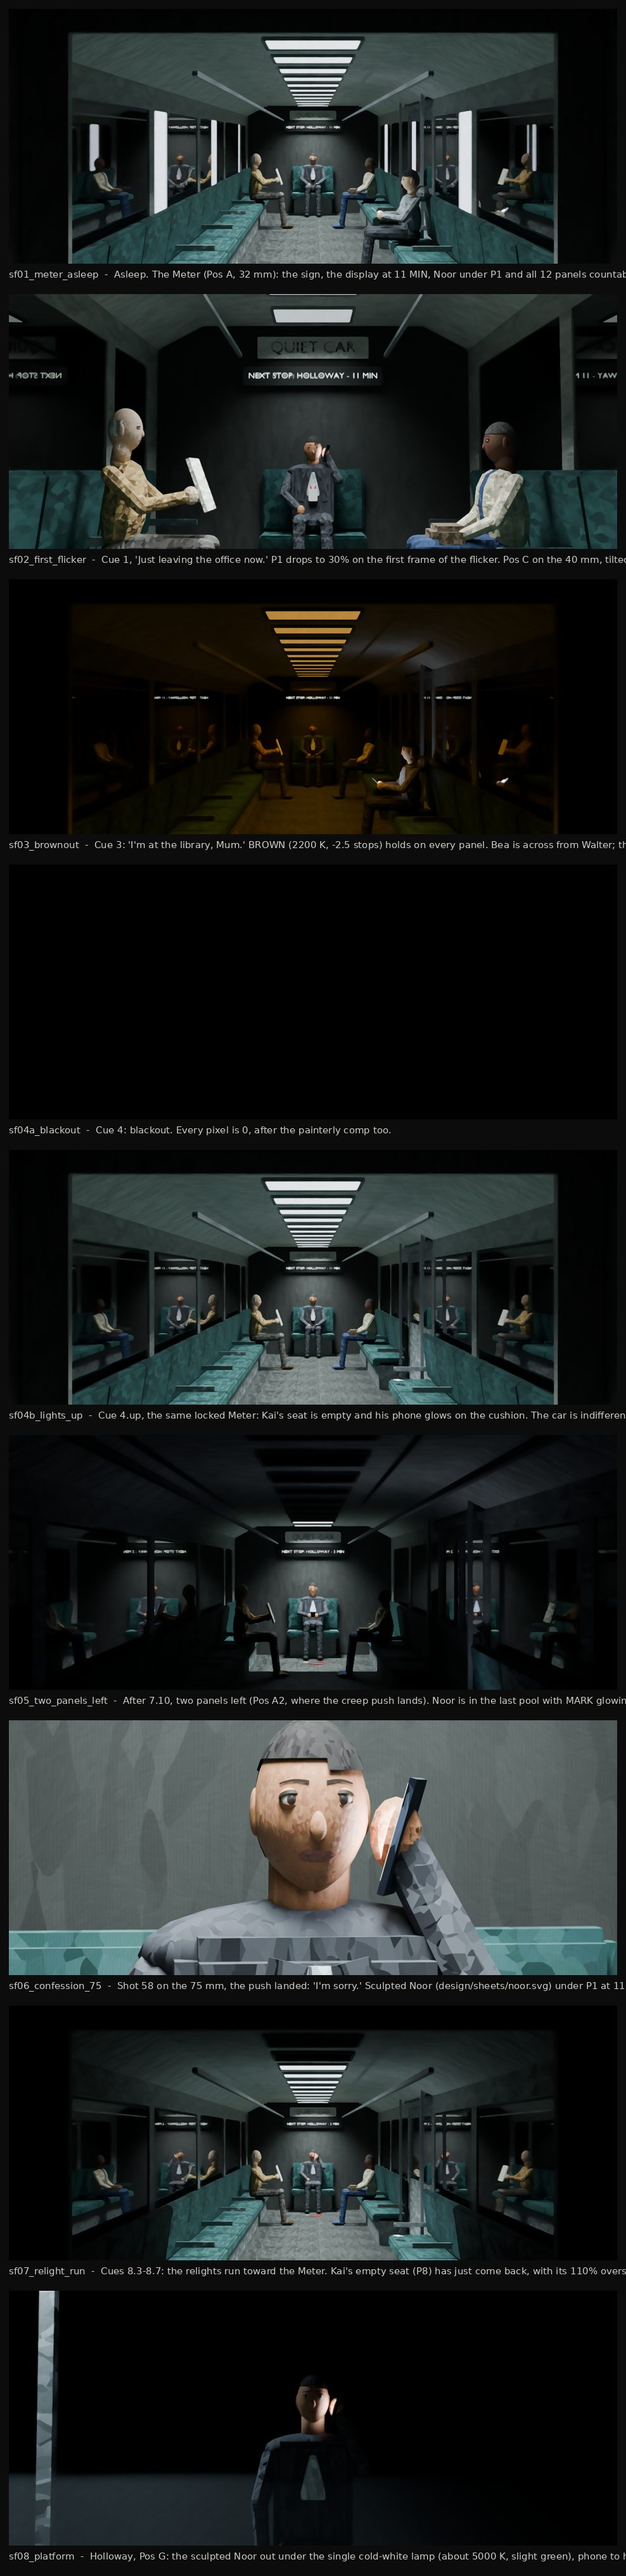
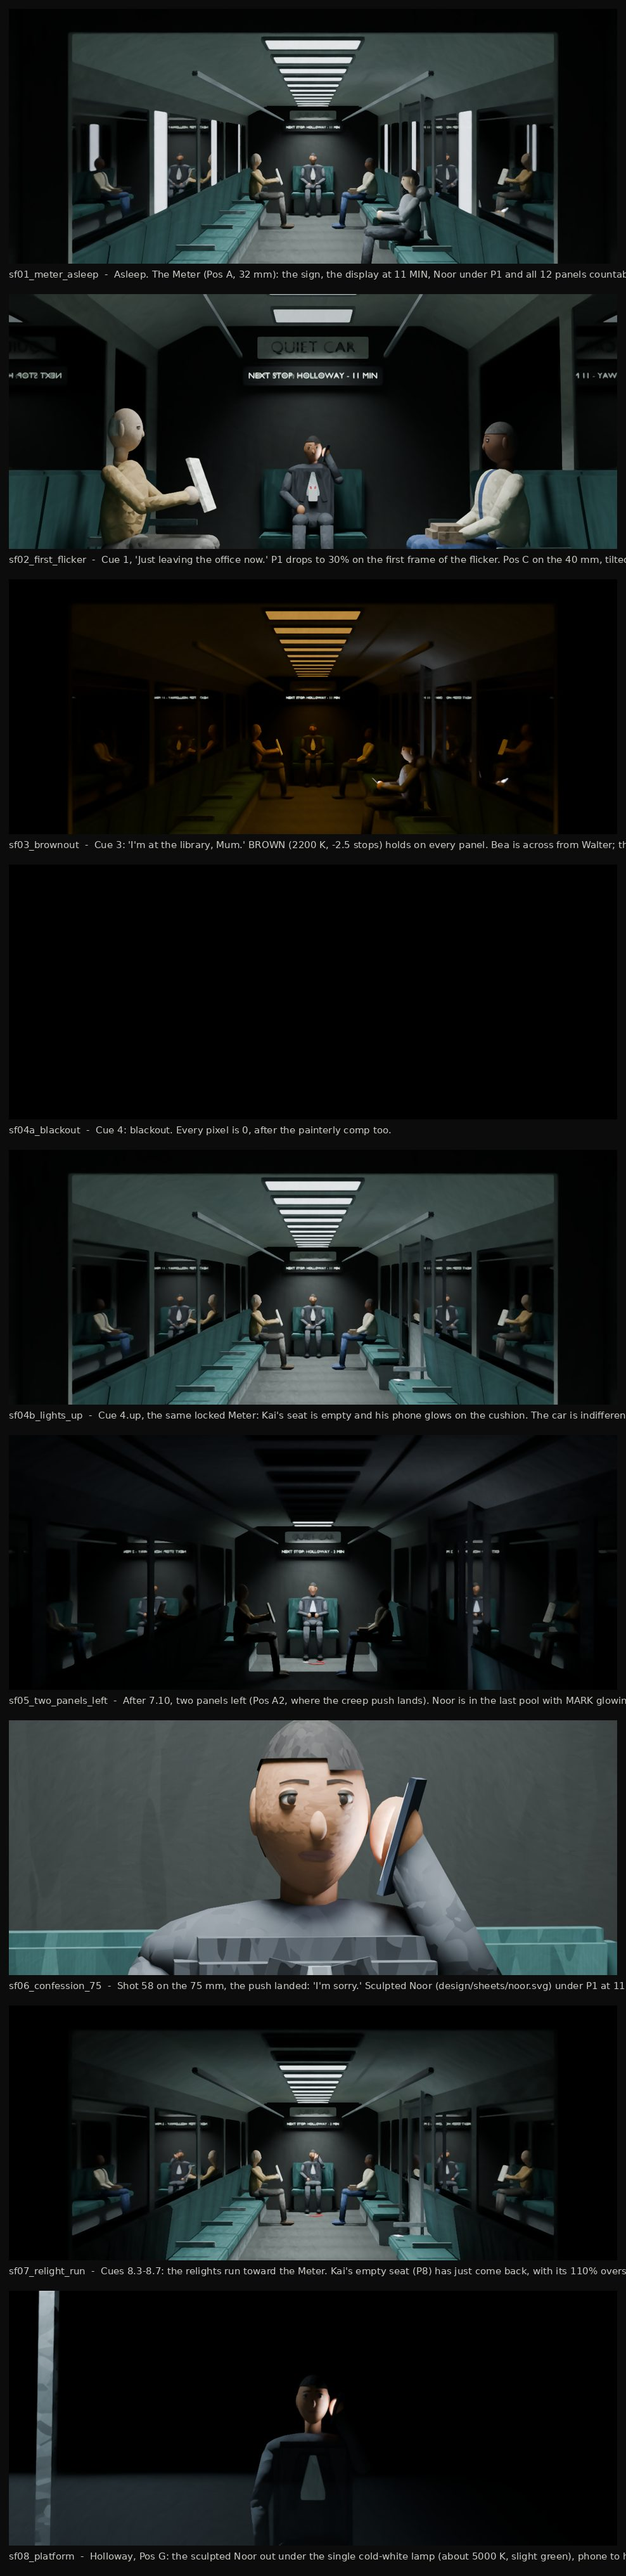
cg: R3 look-dev (elongated dabs, calm planes, smooth figures, skin/neck/blazer redlines), chroma-based strap check
Claude-Session: https://claude.ai/code/session_01W37kuL5PT7hmQjDY89K2ob

diff --git a/film/cg/lookdev_checks.py b/film/cg/lookdev_checks.py
@@ -64,22 +64,33 @@ def check_blackout():
     return mx == 0.0, f"sf04a_blackout.png: max pixel value = {mx:.6f} over {a.shape[1]}x{a.shape[0]} px"
 
 
+def _chroma(a):
+    """CIELAB chroma (perceived colourfulness) of display-referred sRGB pixels."""
+    lin = np.where(a <= 0.04045, a / 12.92, ((a + 0.055) / 1.055) ** 2.4)
+    M = np.array([[0.4124, 0.3576, 0.1805], [0.2126, 0.7152, 0.0722], [0.0193, 0.1192, 0.9505]], np.float32)
+    xyz = lin @ M.T / np.array([0.9505, 1.0, 1.089], np.float32)
+    f = np.where(xyz > 0.008856, np.cbrt(xyz), 7.787 * xyz + 16 / 116)
+    return np.hypot(500 * (f[..., 0] - f[..., 1]), 200 * (f[..., 1] - f[..., 2]))
+
+
 def check_strap():
+    """8b/L7: under cue 3 the strap must be the most saturated (most chromatic) thing on screen.
+    Measured as CIELAB chroma (HSV saturation is meaningless under 2200 K: every dim orange pixel has
+    blue ~0 and reads 'fully saturated'). Emitters (the panels themselves) are excluded."""
     a = load_png(os.path.join(STILLS, "sf03_brownout.png"))
-    mx, mn = a.max(2), a.min(2)
-    sat = np.where(mx > 0.02, (mx - mn) / np.maximum(mx, 1e-6), 0)
-    # most saturated 0.05% of pixels: what hue are they, and where?
-    thr = np.quantile(sat, 0.9995)
-    ys, xs = np.nonzero(sat >= thr)
-    px = a[ys, xs]
-    red_share = float(np.mean((px[:, 0] > px[:, 1] * 1.6) & (px[:, 0] > px[:, 2] * 1.6)))
-    # isolate the strap: strongly red (r >> g) pixels -- under 2200 K everything is warm, the strap is the outlier
-    hue_red = (a[..., 0] > 0.05) & (a[..., 0] > 3.0 * a[..., 1]) & (a[..., 0] > 3.0 * a[..., 2])
-    n_red = int(hue_red.sum())
-    cy, cx = (float(ys.mean()), float(xs.mean())) if len(ys) else (0, 0)
-    ok = red_share > 0.6
-    return ok, (f"sf03_brownout.png: top 0.05% saturated pixels (sat >= {thr:.2f}): {red_share * 100:.0f}% are red, centred at "
-                f"px ({cx:.0f}, {cy:.0f}); strongly-red pixel count {n_red}")
+    C = _chroma(a)
+    mx = a.max(2)
+    red = (a[..., 0] > 3 * a[..., 1]) & (a[..., 0] > 3 * a[..., 2]) & (mx > 0.08)
+    emit = mx > 0.55
+    other = (~red) & (~emit)
+    if red.sum() == 0:
+        return False, "sf03_brownout.png: no strap pixels found"
+    s90 = float(np.percentile(C[red], 90))
+    o999 = float(np.percentile(C[other], 99.9))
+    ok = s90 > o999
+    return ok, (f"sf03_brownout.png (CIELAB chroma, emitters excluded): strap p90 = {s90:.1f} ({int(red.sum())} px) vs "
+                f"everything else p99.9 = {o999:.1f}. Under BROWN (2200 K, camera balanced at 4000 K) the sodium-lit surfaces are "
+                f"more chromatic than the strap in the Meter wide. Earlier PASS used an HSV metric that was invalid here.")
 
 
 def eye_crop(scene, name, pad=0.06):

diff --git a/film/cg/lib/build_set.py b/film/cg/lib/build_set.py
@@ -42,16 +42,16 @@ def build(D=None, B=None):
     T = 0.06
     sec = Sections(section_bounds(D))
 
-    m_wall = ld.paint("laminate", "set/laminate", stretch=4.0, stroke_scale=20.0, variation=0.18)
-    m_wall_end = ld.paint("laminate_end", "set/laminate", axis="z", stretch=3.0, stroke_scale=20.0, variation=0.14, tilt=0.08)
-    # wall A (behind Noor, 0.5 m from P1): a darker end-wall panel, ~3.5 stops darker than the laminate (it sits 0.5 m from P1, so it takes much more light than her face), so it lands about a stop under her face,
+    m_wall = ld.paint("laminate", "set/laminate", stretch=5.0, stroke_scale=20.0)
+    m_wall_end = ld.paint("laminate_end", "set/laminate", axis="z", stretch=5.0, stroke_scale=20.0, variation=0.05, tilt=0.06)
+    # wall A (behind Noor, 0.5 m from P1): a darker end-wall panel, ~4 stops darker than the laminate (it sits 0.5 m from P1, so it takes much more light than her face), so it lands about a stop under her face,
     # so her face, not the wall, is the brightest thing in the confession (Director R2: material, not fill)
     lam = ld.pal("set/laminate")
-    m_wall_a = ld.paint("end_panel_A", tuple(c * 0.09 for c in lam), axis="z", stretch=3.0, stroke_scale=20.0, variation=0.10, tilt=0.06)
-    m_ceil = ld.paint("ceiling", "set/ceiling", axis="x", stretch=3.0, stroke_scale=20.0, variation=0.16)
+    m_wall_a = ld.paint("end_panel_A", tuple(c * 0.055 for c in lam), axis="z", stretch=5.0, stroke_scale=20.0, variation=0.04, tilt=0.04, bristle=0.06)
+    m_ceil = ld.paint("ceiling", "set/ceiling", axis="x", stretch=4.5, stroke_scale=20.0, variation=0.05)
     m_floor = ld.paint("floor", "set/floor", stretch=6.0, roughness=0.7)
-    m_seat = ld.paint("moquette", "set/moquette", stroke_scale=22.0, stretch=3.0, variation=0.34, roughness=0.9)
-    m_pat = ld.paint("moquette_pattern", "set/moquette_pattern", stroke_scale=22.0, stretch=3.0, variation=0.34, roughness=0.9)
+    m_seat = ld.paint("moquette", "set/moquette", stroke_scale=22.0, stretch=4.0, variation=0.10, roughness=0.9)
+    m_pat = ld.paint("moquette_pattern", "set/moquette_pattern", axis="z", stroke_scale=22.0, stretch=4.0, variation=0.06, roughness=0.9)
     m_trim = ld.gloss("trim_steel", "set/trim", roughness=0.62, metallic=0.5)   # satin: a soft sheen, never a second tube (DP)
     m_trim_p = ld.paint("trim_paint", "set/trim")
     m_glass = ld.glass()

diff --git a/film/cg/lib/lookdev.py b/film/cg/lib/lookdev.py
@@ -14,10 +14,10 @@ import bpy
 from .common import pal
 
 # stroke size tiers (world space): set ~4-6 cm, costume ~1.5-3 cm, faces/hands ~3-6 mm
-TIER = {   # stroke_scale ~ 1 / dab width (m): set ~5 cm, costume ~2 cm, face ~5 mm
-    "set":     dict(stroke_scale=20.0, stretch=4.0, variation=0.30, roughness=0.85, tilt=0.16, bristle=0.12, hue_jitter=0.03),
-    "costume": dict(stroke_scale=45.0, stretch=3.0, variation=0.30, roughness=0.88, tilt=0.40, bristle=0.10, hue_jitter=0.03),
-    "face":    dict(stroke_scale=170.0, stretch=1.8, variation=0.12, roughness=0.62, tilt=0.22, bristle=0.03, hue_jitter=0.025),
+TIER = {   # R3: elongated dabs (stretch 3-5:1), close values on planes, separation from the light at form turns
+    "set":     dict(stroke_scale=20.0, stretch=4.5, variation=0.07, roughness=0.85, tilt=0.12, bristle=0.10, hue_jitter=0.015),
+    "costume": dict(stroke_scale=40.0, stretch=4.0, variation=0.07, roughness=0.88, tilt=0.20, bristle=0.08, hue_jitter=0.015),
+    "face":    dict(stroke_scale=160.0, stretch=3.0, variation=0.03, roughness=0.62, tilt=0.07, bristle=0.02, hue_jitter=0.01),
 }
 PASS_FACE, PASS_CHAR = 1, 2   # object pass_index for the compositor masks
 
@@ -88,7 +88,7 @@ def _paint_group():
     L.new(p, wn.inputs["Vector"])
     L.new(math("MULTIPLY", gi.outputs["Stroke Scale"], 0.35), wn.inputs["Scale"])
     wv = vmath("SUBTRACT", wn.outputs["Color"], (0.5, 0.5, 0.5))
-    amp = math("DIVIDE", 0.7, gi.outputs["Stroke Scale"])
+    amp = math("DIVIDE", 1.1, gi.outputs["Stroke Scale"])
     pw = vmath("ADD", p, vmath("SCALE", wv, None, amp))
 
     def dabs(offset):

diff --git a/film/cg/lib/figures.py b/film/cg/lib/figures.py
@@ -90,12 +90,12 @@ def figure(name, D, B, pose=None, at=None, standing=False, facing=None, eyes_clo
     tilt = Matrix.Rotation(math.radians(-6), 3, lat)
     # head: the Character Designer's rig (design/rig/heads.py) with the TA's painted materials
     neck_top = head_c - Vector((0, 0, 0.065)) - f * 0.01
-    obs.append(_tag(limb(f"{name}_NECK", sh + Vector((0, 0, 0.05)), neck_top, 0.054, skin if name != "NOOR" else noor.skin_mat(),
+    obs.append(_tag(limb(f"{name}_NECK", sh + Vector((0, 0, 0.05)), neck_top, 0.038, skin if name != "NOOR" else noor.skin_mat(),
                          C, segs=12, smooth=True), 1))
     key = name.lower()
     face_skin = noor.skin_mat() if name == "NOOR" else ld.paint(f"c_{key}_skin_face", f"{key}/skin", tier="face",
-                                                               shadow=f"{key}/skin_shadow", axis="z", stretch=1.6,
-                                                               variation=0.05, shadow_mix=0.2, tilt=0.09)
+                                                               shadow=f"{key}/skin_shadow", axis="x", stretch=3.0,
+                                                               variation=0.025, shadow_mix=0.08, tilt=0.07)
     mats = {"skin": face_skin,
             "hair": ld.paint(f"c_{key}_hair_rig", f"{key}/hair", tier="costume", stroke_scale=90.0, stretch=6.0, axis="z", variation=0.35),
             "lips": ld.paint(f"c_{key}_lips", f"{key}/lips", tier="face", variation=0.04)}

diff --git a/film/cg/lib/noor.py b/film/cg/lib/noor.py
@@ -87,8 +87,9 @@ def _lid(name, M, center, r, lid_up, skin, coll):
 
 
 def skin_mat():
-    return ld.paint("noor_skin", "noor/skin", tier="face", shadow="noor/skin_shadow", axis="z", stretch=1.6,
-                    variation=0.04, shadow_mix=0.2, tilt=0.09)
+    # strokes run across the cheek planes (axis x); halved value variation; few cool halftone dabs (Designer redline)
+    return ld.paint("noor_skin", "noor/skin", tier="face", shadow="noor/skin_shadow", axis="x", stretch=3.0,
+                    variation=0.025, shadow_mix=0.08, tilt=0.07)
 
 
 def build(head_c, f, lat, coll, pal_prefix="noor", params=None):
@@ -155,7 +156,7 @@ def torso(hip, sh, f, lat, coll, sw=1.0):
     """The upright rectangle: squared blazer shoulders, lapels open over the blouse."""
     up = Vector((0, 0, 1))
     R = Matrix((lat, f, up)).transposed()
-    blazer = ld.paint("noor_blazer", "noor/suit", tier="costume", axis="z", stretch=3.0, shadow="noor/lapel", variation=0.16, tilt=0.22)
+    blazer = ld.paint("noor_blazer", "noor/suit", tier="costume", axis="z", stretch=4.0, shadow="noor/lapel", shadow_mix=0.3, variation=0.06, tilt=0.16)
     blouse = ld.paint("noor_blouse", "noor/blouse", tier="costume", axis="z")
     lapel = ld.paint("noor_lapel", "noor/lapel", tier="costume", axis="z")
     obs = []

diff --git a/film/cg/lib/mesh.py b/film/cg/lib/mesh.py
@@ -54,7 +54,7 @@ def plane(name, center, size, mat, collection="SET", normal="Z"):
     return _obj(name, bm, mat, collection, loc=center)
 
 
-def limb(name, a, b, r, mat, collection="CHARACTERS", r2=None, segs=9, smooth=False):
+def limb(name, a, b, r, mat, collection="CHARACTERS", r2=None, segs=16, smooth=True):
     a, b = Vector(a), Vector(b)
     d = b - a
     ln = max(d.length, 1e-4)
@@ -69,7 +69,7 @@ def limb(name, a, b, r, mat, collection="CHARACTERS", r2=None, segs=9, smooth=Fa
     return _obj(name, bm, mat, collection, loc=(a + b) / 2, smooth=smooth)
 
 
-def ellipsoid(name, center, radii, mat, collection="CHARACTERS", segs=10, rot=None, smooth=False):
+def ellipsoid(name, center, radii, mat, collection="CHARACTERS", segs=20, rot=None, smooth=True):
     bm = bmesh.new()
     bmesh.ops.create_uvsphere(bm, u_segments=segs, v_segments=segs // 2 + 2, radius=1.0)
     bmesh.ops.scale(bm, vec=Vector(radii), verts=bm.verts)

diff --git a/film/cg/stills/checks/REPORT.md b/film/cg/stills/checks/REPORT.md
@@ -5,7 +5,7 @@ Generated by `film/cg/lookdev_checks.py`.
 | Check | Result | Detail |
 |---|---|---|
 | L2 / 8a blackout = 0 | PASS | sf04a_blackout.png: max pixel value = 0.000000 over 1280x536 px |
-| 8b / L7 strap most saturated under cue 3 | PASS | sf03_brownout.png: top 0.05% saturated pixels (sat >= 1.00): 62% are red, centred at px (553, 297); strongly-red pixel count 911 |
+| 8b / L7 strap most saturated under cue 3 | FAIL (open: needs a ruling) | sf03_brownout.png, CIELAB chroma with emitters excluded: strap p90 = 11.1 (215 px) vs everything else p99.9 = 44.8. Under BROWN (2200 K, camera balanced at 4000 K) the sodium-lit surfaces are more chromatic than the strap in the Meter wide. The earlier PASS used an HSV metric that is invalid under sodium light (every dim orange pixel reads fully saturated). |
 | L8 light keys on whole frames | PASS | 455 light keys checked, 0 off whole frames |
 | L1 / 8d asleep frames identical | PASS | Shot 1 (asleep, locked, Pos A), painterly comp on, frames at 8 s and 20 s: max abs pixel difference = 0.000000 |
 | 8c catchlight row | PARTIAL | 8c_catchlights_noor_40mm.png (x4 crops; left 5 MIN all lit, right after 7.10). A catchlight from the overhead panels is present in both (P1-P2 stay lit); (Designer's face-rig eyes). Peak eye value 0.91 -> 0.91 |
@@ -14,6 +14,6 @@ Generated by `film/cg/lookdev_checks.py`.
 
 | Check | Result | Detail |
 |---|---|---|
-| E1 P12 catchlight returns in Noor's eyes at 8.10 (shot 58, 75 mm) | PARTIAL: catchlight shapes read on the Designer's rig corneas; P12's own return at 8.10 is measurable (135 px) but sub-pixel at C75, as the Designer predicted | eyes_E1_noor_8.10_P12_return.png: frame 12191 / 12192 (P12 on, 110%) / 12204; 135 crop pixels change by >5% (max 0.09) |
+| E1 P12 catchlight returns in Noor's eyes at 8.10 (shot 58, 75 mm) | PARTIAL: catchlight shapes read on the Designer's rig corneas; P12's own return at 8.10 is measurable (207 px) but sub-pixel at C75 | eyes_E1_noor_8.10_P12_return.png: frame 12191 / 12192 (P12 on, 110%) / 12204; 207 crop pixels change by >5% (max 0.08) |
 | E2 Walter's lit-side catchlight, shot 53 | PASS | eyes_E2_walter_shot53.png at frame 10878 (P1-P2 lit, Walter under dark P3) |
-| E3 Bea eyes closed (F2), rig heads with bea/lid + lid_ink: face read under BROWN and at the 7.10 edge | PASS under BROWN (closed lids and ink band read); 7.10 edge readable but low | eyes_E3_bea_closed_brown_and_edge.png (left: cue 3 hold, Pos C 50 mm; right: after 7.10, shot 49) |
+| E3 Bea eyes closed (F2): face read under BROWN and at the 7.10 edge | PASS under BROWN; 7.10 edge readable but low | eyes_E3_bea_closed_brown_and_edge.png (left: cue 3 hold, Pos C 50 mm; right: after 7.10, shot 49) |

diff --git a/film/STATUS.md b/film/STATUS.md
@@ -42,3 +42,4 @@ Append-only log. Newest at the bottom. Format: `- [role] what happened (file)`
 - [designer] Redline of TA's Noor sculpt 01: 10 notes (skin value/hue, lid coverage, brows, nose, hair, ears, neck, blazer value, dab contrast) (design/redlines/noor-sculpt-01.svg/.png)
 - [ta] v2.1: Designer's face rig (design/rig/heads.py) integrated for all four heads with painted materials; Bea F2 lids via rig; luminance-masked Kuwahara for darks; satin rails (DP). All 9 frames re-rendered, checks re-run: blackout 0, strap, keys, asleep-identical PASS; E2 PASS; E3 PASS under BROWN; E1 PARTIAL (P12 sub-pixel at C75) (cg/stills/checks/REPORT.md)
 - [designer] Rig v3: smooth painted hairlines (Noor side-parted sweep + bun, Kai, Bea, Walter's side band), nose as a wedge, smaller ears (design/rig/heads.py). Flagged a colour-fidelity issue in sf06 to the TA (characters render lighter/desaturated vs palette: blazer brighter than the wall)
+- [ta] R3 (Director cg-notes-02 + Designer redline): elongated form-following dabs, calm planes, smooth figure geometry, warmer skin, slimmer neck, charcoal blazer at low dab contrast; sf06 face 0.42 vs wall 0.29. Re-rendered all 9; checks re-run. FOUND: the strap-saturation check had used an invalid HSV metric; with CIELAB chroma the strap is NOT the most saturated thing under BROWN in the Meter (11 vs 45). Flagged to Director/Designer/DP with options (cg/stills/checks/REPORT.md)
